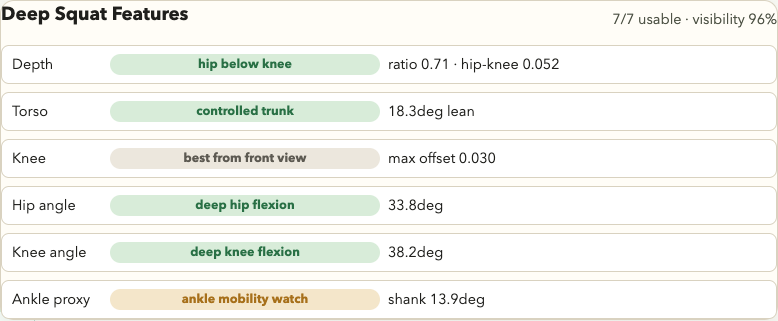
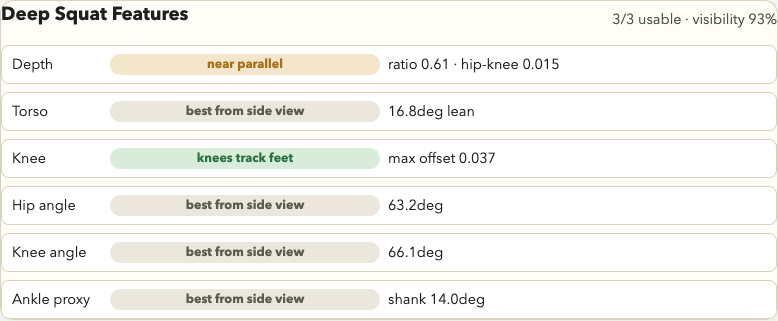
docs: show real video in interface figures

diff --git a/docs/publication/ai_fms_phase_i_full_manuscript_draft_zh-CN_2026-08-17.html b/docs/publication/ai_fms_phase_i_full_manuscript_draft_zh-CN_2026-08-17.html
@@ -980,7 +980,7 @@
         </p>
         <div class="figure">
           <img
-            src="../assets/publication/ai-fms-study-mode-blind-review-public-safe.png"
+            src="../assets/publication/ai-fms-study-mode-blind-review-real-video.png"
             alt="AI-FMS Study Mode blind review workflow"
           />
           <div class="figure-caption">
@@ -988,7 +988,9 @@
             >Reviewer 只看到 匿名队列、动作视频、RAW
             SCORE、unscorable、confidence、camera view、side、 QA flags 和
             note；正式 Round A/B 不显示 AI suggestion、pose parameters、历史
-            分数、另一 reviewer 答案或源文件名。人物画面在论文候选图中被隐藏。
+            分数、另一 reviewer 答案或源文件名。图中保留 reviewer
+            实际看到的匿名动作
+            视频；该人物帧仅用于内部审阅，正式发表前需确认再发布权利。
           </div>
         </div>
 
@@ -1063,10 +1065,14 @@
           Pilot 使用既有本地和公开教学/reference
           videos，没有前瞻性招募参与者，也没有 收集人口统计、临床诊断或 injury
           outcome。不同来源的公开与再发布权利尚未完全
-          统一，因此本文初稿只使用聚合数值和无人物研究图。Raw
-          videos、可识别帧、raw pose、 reviewer comments、签名 exports 和 SQLite
-          均保持私有。正式投稿前需要目标期刊书面 确认 secondary-video research
-          所需的 SRC/IRB/exemption/consent 与 rights 材料。
+          统一。为准确展示系统，当前内部审阅稿在 Workbench 与 Study Mode
+          图中各保留一张
+          真实动作帧，但不显示源文件名、受试者身份或历史评分；这些截图不因此自动获得
+          对外再发布资格。Raw videos、未选取的可识别帧、raw pose、reviewer
+          comments、 签名 exports 和 SQLite
+          均保持私有。正式投稿前需要逐帧确认所用界面图的 rights，
+          并向目标期刊书面确认 secondary-video research 所需的
+          SRC/IRB/exemption/consent 材料。
         </p>
       </section>
 
@@ -1090,15 +1096,15 @@
         </p>
         <div class="figure">
           <img
-            src="../assets/publication/ai-fms-workbench-overview-public-safe.png"
+            src="../assets/publication/ai-fms-workbench-overview-real-video.png"
             alt="AI-FMS quantitative feature and seven-action workflow interface"
           />
           <div class="figure-caption">
             <strong>图 3｜AI-FMS Workbench 的定量证据与七动作范围。</strong
             >完整三栏界面同时展示视频与pose、AI
-            suggestion、人工reviewer、segment metadata、timing
-            evidence、七个rep和readiness。源视频画面在publication候选图中
-            被替换为privacy-safe pose-only view。
+            suggestion、人工reviewer、segment metadata、timing evidence、七个
+            rep 和 readiness。视频区显示真实动作帧与对齐的 MediaPipe pose
+            overlay；源文件名、score-bearing notes 与具体 reviewer ID 已移除。
           </div>
         </div>
 
@@ -1771,10 +1777,12 @@
         <h3>数据与代码可用性</h3>
         <p>
           Source code、schema、聚合图和 public-safe methods 可在 rights/privacy
-          审核后通过 GitHub release 提供。Raw videos、可识别帧、raw pose
-          landmarks、reviewer comments、 signed exports 和本地 SQLite
-          不公开。Canonical data 与分析输出通过稳定 ID、 SHA-256、manifest
-          和生成脚本保存于 private research archive。
+          审核后通过 GitHub release 提供。Raw videos、未获授权的可识别帧、raw
+          pose landmarks、reviewer comments、signed exports 和本地 SQLite
+          不公开。两张界面 截图中的固定视频帧只有在完成 frame-level rights
+          确认后才进入投稿稿件，否则将由
+          项目自有并取得同意的同类画面替换。Canonical data 与分析输出通过稳定
+          ID、 SHA-256、manifest 和生成脚本保存于 private research archive。
         </p>
 
         <h3>利益冲突与资金</h3>

diff --git a/src/App.jsx b/src/App.jsx
@@ -62,6 +62,24 @@ const INGEST_HISTORY_STORAGE_KEY = "ai-fms-v1-6-ingest-history";
 const MAX_INGEST_HISTORY_ENTRIES = 30;
 const DEMO_PRESETS = [
   {
+    id: "publication-deep-squat",
+    label: "Deep Squat full-width demo",
+    actionType: "deep_squat",
+    videoUrl:
+      "/Eval_Videos/Sample%20videos/1-Squat/3%20%282%29%20reps%20score%203.mp4",
+    poseUrl:
+      "/Eval_Videos/Sample%20videos/1-Squat/pose/3%20%282%29%20reps%20score%203.pose.json",
+    videoFileName: "deep-squat-demo.mp4",
+    poseFileName: "deep-squat-demo.pose.json",
+    expectedReps: "3",
+    notes:
+      "Three front-view Deep Squat repetitions with complete movement cycles.",
+    range: {
+      startSecond: "0",
+      endSecond: "20.3",
+    },
+  },
+  {
     id: "sample-1",
     label: "Sample-1 mixed views",
     actionType: "deep_squat",

diff --git a/docs/publication/README.md b/docs/publication/README.md
@@ -61,7 +61,7 @@ review timeline.
 | Movement-specific analyses   | Ready                     | Four differentiated analyses and four generated figures                                         |
 | Literature review            | Initial draft             | Eleven starting references included; every source still requires human reading and verification |
 | Ethics/SRC/IRB determination | Pending                   | Secondary-video status and any future collection must be confirmed                              |
-| Media and protocol rights    | Pending                   | Public figures are aggregate; source video and identifiable frames remain private               |
+| Media and protocol rights    | Pending                   | Internal draft has two real-frame UI captures; external reuse needs frame-level clearance       |
 | AI-use eligibility           | Pending journal reply     | Full disclosure is mandatory; no policy assumption                                              |
 | Authorship and adult advisor | Pending                   | Ronnie first-author target; adult corresponding contact must be confirmed                       |
 | NHSJS Word variants          | Pending                   | Created only after eligibility and manuscript text are approved                                 |
@@ -101,12 +101,12 @@ submission receipt, or Zenodo preprint.
   move detailed case tables, the Study Mode figure, and appendices into
   supporting material to meet the NHSJS 20-page limit at 12-point type.
 - `../../scripts/capture-ai-fms-publication-screenshots.mjs`: reproducibly runs
-  the real Demo and Study Mode dry-run, removes private media and score-bearing
-  metadata from the captured view, and generates the three publication assets.
-- `../assets/publication/ai-fms-workbench-overview-public-safe.png`: complete
-  Workbench overview used in the manuscript.
-- `../assets/publication/ai-fms-study-mode-blind-review-public-safe.png`: blind
-  review workflow figure retained in the internal paper and future supplement.
+  the real Demo and Study Mode dry-run, seeks fixed action frames, removes source
+  names and score-bearing metadata, and generates the three interface assets.
+- `../assets/publication/ai-fms-workbench-overview-real-video.png`: complete
+  Workbench overview with real movement video and pose overlay.
+- `../assets/publication/ai-fms-study-mode-blind-review-real-video.png`: blind
+  review workflow with the anonymous action video visible.
 - `../assets/publication/ai-fms-workbench-quantitative-evidence.png`: compact
   parameter-detail figure for the project page or supplement.
 
@@ -121,3 +121,7 @@ Before the inquiry is sent:
 4. Confirm which source videos, screenshots, and aggregate figures may be
    described or published.
 5. Approve the AI-use disclosure without minimizing the role of Codex.
+
+The two real-frame interface captures are for internal manuscript review until
+the exact frames are cleared for publication. If clearance is unavailable, they
+must be replaced by equivalent project-owned, consented footage.

diff --git a/docs/reports/ai_fms_phase_i_technical_report_2026-08-09.md b/docs/reports/ai_fms_phase_i_technical_report_2026-08-09.md
@@ -192,21 +192,22 @@ Product Scope 回答“系统做出了什么”；Research Scope 回答“本阶
 
 ### 3.5 当前界面证据
 
-![AI-FMS publication-safe workbench overview](../assets/publication/ai-fms-workbench-overview-public-safe.png)
+![AI-FMS Workbench with real movement video](../assets/publication/ai-fms-workbench-overview-real-video.png)
 
-[打开原图：Publication-safe Workbench overview](../assets/publication/ai-fms-workbench-overview-public-safe.png)
+[打开原图：Workbench overview with real movement video](../assets/publication/ai-fms-workbench-overview-real-video.png)
 
-![AI-FMS Study Mode blind review](../assets/publication/ai-fms-study-mode-blind-review-public-safe.png)
+![AI-FMS Study Mode blind review](../assets/publication/ai-fms-study-mode-blind-review-real-video.png)
 
-[打开原图：Study Mode blind-review dry-run](../assets/publication/ai-fms-study-mode-blind-review-public-safe.png)
+[打开原图：Study Mode blind-review dry-run](../assets/publication/ai-fms-study-mode-blind-review-real-video.png)
 
 ![AI-FMS quantitative feature detail](../assets/publication/ai-fms-workbench-quantitative-evidence.png)
 
 [打开原图：Quantitative feature detail](../assets/publication/ai-fms-workbench-quantitative-evidence.png)
 
-这些截图通过真实浏览器和现有 Demo workflow 生成。为遵守当前 publication boundary，
-人物与源视频帧在 Workbench 和 Study Mode 图中被 privacy-safe evidence view 替代；
-pose、timing、features、AI suggestion 和 review controls 均来自真实应用状态。
+这些截图通过真实浏览器和现有 Demo workflow 生成。Workbench 同时显示真实动作视频、
+pose、timing、features、AI suggestion 和 review controls；Study Mode 显示 reviewer 实际
+看到的匿名动作视频与盲评控件。源文件名、score-bearing notes 和具体 reviewer IDs 已从
+截图中移除。含人物截图当前仅用于内部审阅，正式发表前必须完成 frame-level rights 审核。
 
 ## 4. 数据与研究方法
 

diff --git a/docs/plans/ai_fms_4_week_closeout_plan_2026-08-09.md b/docs/plans/ai_fms_4_week_closeout_plan_2026-08-09.md
@@ -5,7 +5,7 @@
 | 字段     | 当前值                         |
 | -------- | ------------------------------ |
 | 文档状态 | ACTIVE - Canonical Plan        |
-| 版本     | v1.34                          |
+| 版本     | v1.35                          |
 | 执行周期 | 2026-08-09 至 2026-09-06       |
 | 硬截止   | 2026-09-06                     |
 | 最近更新 | 2026-08-17                     |
@@ -579,14 +579,22 @@ Secondary questions：
 
 ## 12. 变更记录
 
+### v1.35 - 2026-08-17
+
+- 根据内部审阅反馈，Workbench 与 Study Mode 截图恢复真实动作视频帧；Workbench 同时
+  保留对齐的 MediaPipe pose overlay，不再使用黑色 pose-only 占位画面。
+- 截图继续移除源文件名、score-bearing notes 与具体 reviewer IDs；含人物界面图在
+  frame-level rights 确认前只用于内部审阅，无法授权时改用项目自有并取得同意的视频。
+
 ### v1.34 - 2026-08-17
 
 - 将旧的局部、留白过多界面图替换为真实浏览器生成的完整 Workbench、Study Mode 和
   quantitative feature 三张 publication-safe screenshots。
 - Workbench 图展示 AI-FMS 品牌、pose-only evidence、AI suggestion、两位 reviewer、
   segment metadata、timing 和七 rep；Study Mode 图展示完整盲评 controls。
-- 截图脚本自动隐藏人物帧、源文件名、score-bearing notes 和具体 reviewer IDs；当前中文
-  PDF 为 24 页，正式英文正文将把 Study Mode 图转入 supplement。
+- 截图脚本在该版自动隐藏人物帧、源文件名、score-bearing notes 和具体 reviewer IDs；
+  人物帧策略已在 v1.35 根据内部审阅反馈调整。当前中文 PDF 为 24 页，正式英文正文将把
+  Study Mode 图转入 supplement。
 
 ### v1.33 - 2026-08-17
 

diff --git a/README.md b/README.md
@@ -135,19 +135,22 @@ ASLR subject-aware sensitivity 另把三个原 `limited` 窗口重提取为 1 `g
 
 ## 界面截图
 
-![AI-FMS publication-safe workbench overview](docs/assets/publication/ai-fms-workbench-overview-public-safe.png)
+![AI-FMS Workbench with real movement video](docs/assets/publication/ai-fms-workbench-overview-real-video.png)
 
-完整 Workbench 总览：视频区域保留真实 pose overlay，但隐藏待授权源画面；同时展示
-AI suggestion、人工 reviewer、segment metadata、timing evidence 和七动作范围。
+完整 Workbench 总览：真实动作视频与 MediaPipe pose overlay 对齐显示，同时展示 AI
+suggestion、人工 reviewer、segment metadata、timing evidence 和七动作范围。
 
-![AI-FMS Study Mode blind review](docs/assets/publication/ai-fms-study-mode-blind-review-public-safe.png)
+![AI-FMS Study Mode with real blind-review video](docs/assets/publication/ai-fms-study-mode-blind-review-real-video.png)
 
 Study Mode dry-run：展示匿名队列、RAW SCORE、unscorable、confidence、camera view、
-side、QA flags 和 note；中心媒体画面按 publication boundary 隐藏。
+side、QA flags 和 note；中心区域显示 reviewer 实际看到的匿名动作视频。
 
 ![AI-FMS quantitative feature detail](docs/assets/publication/ai-fms-workbench-quantitative-evidence.png)
 
 定量证据近景：展示 depth、torso、knee、hip、ankle 等 reviewer-readable features。
+
+当前两张含人物画面的界面图用于内部文稿审阅。正式对外发布前必须确认所用视频帧的
+再发布权利；若无法确认，则替换为项目自采并获得授权的同类动作画面。
 
 ## 本地运行
 

diff --git a/docs/backlog.md b/docs/backlog.md
@@ -473,12 +473,13 @@ Canonical execution plan:
 - [x] Reframe the manuscript around all-seven-movement system development and
       Phase I formative evaluation; retain four-movement information recovery as
       a secondary research contribution rather than the initial project purpose.
-- [x] Replace the old partial UI captures with reproducible, publication-safe
-      Workbench overview, quantitative-feature detail, and Study Mode dry-run
-      screenshots generated from the real browser workflow.
-- [x] Sanitize publication captures by withholding source media and removing
-      file names, score-bearing notes, and specific reviewer identifiers while
-      preserving real pose, timing, AI, metadata, and review controls.
+- [x] Replace the old partial UI captures with reproducible Workbench overview,
+      quantitative-feature detail, and Study Mode dry-run screenshots generated
+      from the real browser workflow.
+- [x] Restore clear real-video action frames in the Workbench and Study Mode
+      captures while removing source file names, score-bearing notes, and
+      specific reviewer identifiers; retain frame-level rights clearance as a
+      publication gate.
 - [ ] Confirm student/author metadata, adult corresponding contact, CRediT-style
       contributions, rights boundaries, and AI-use disclosure.
 - [ ] Send the NHSJS presubmission inquiry and archive the written response.

diff --git a/docs/publication/ai_fms_manuscript_evidence_map_2026-08-17.md b/docs/publication/ai_fms_manuscript_evidence_map_2026-08-17.md
@@ -268,14 +268,19 @@ submission set:
 1. Table 1: manual scoring problems, implemented functions, and boundaries.
 2. Figure 1: AI-FMS human-in-the-loop workflow and evidence lineage.
 3. Table 2: all-seven-movement product capability.
-4. Figure 2: public-safe Study Mode dry-run blind-review interface.
-5. Figure 3: public-safe full Workbench interface.
+4. Figure 2: Study Mode dry-run blind-review interface with a real anonymous
+   movement frame; internal review until frame-level rights clearance.
+5. Figure 3: full Workbench interface with real movement video and aligned pose;
+   internal review until frame-level rights clearance.
 6. Table 3: dataset tiers and four-movement Phase I sample distribution.
 7. Table 4: Round A/B human reliability and AI-human concordance.
 8. Figures 4-7: four movement-specific secondary analyses.
 
-All figures must be public-safe, readable in print, and free of source file
-names, local paths, identifiable frames, and raw reviewer comments.
+All figures must be readable in print and free of source file names, local
+paths, score-bearing metadata, and raw reviewer comments. Identifiable action
+frames may remain in the internal draft, but can enter the submitted manuscript
+only after frame-level rights clearance or replacement with project-owned,
+consented footage.
 
 ## Claims Excluded from the Manuscript
 
